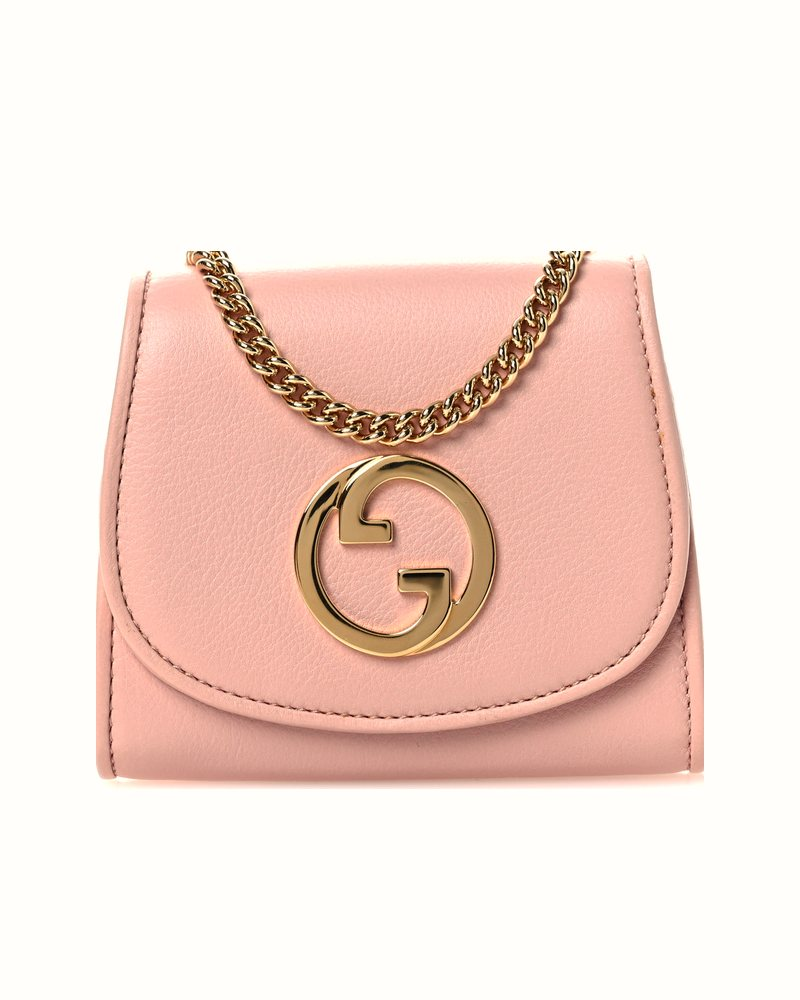
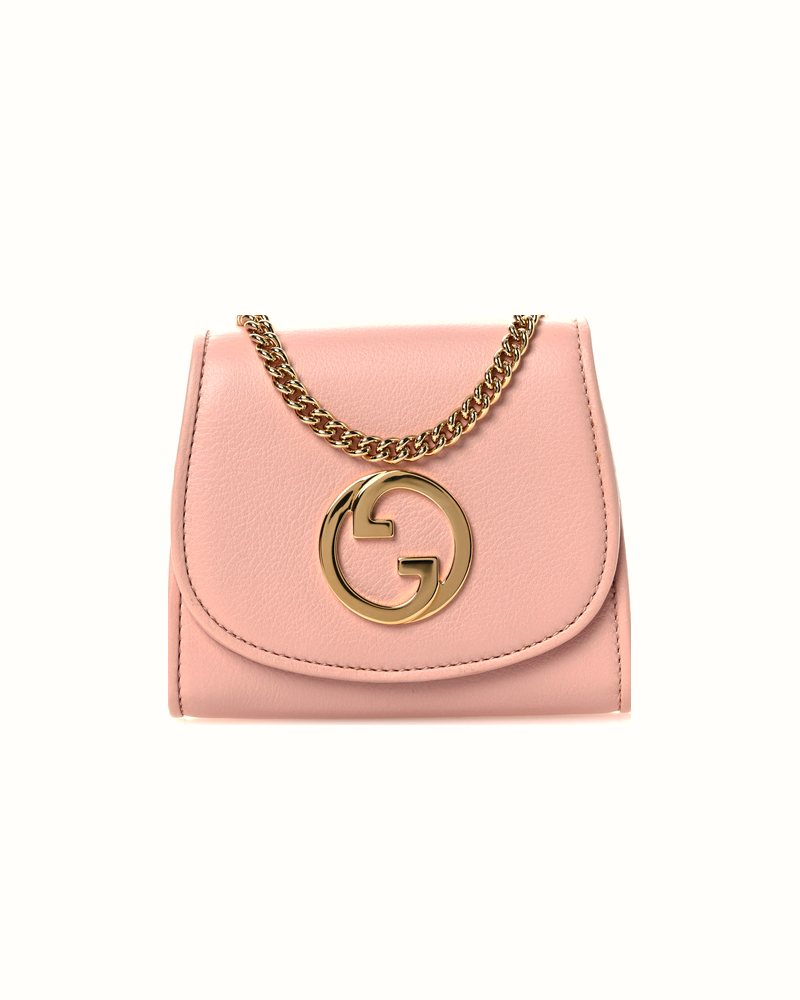
Gucci Blondie: foto da vitrine no mesmo tamanho das outras bolsas
Claude-Session: https://claude.ai/code/session_017J54gBRppZEUJhkaHXdahC

Changed region(s): [[0.0938, 0.248, 0.9062, 0.806]]

diff --git a/aluguel.html b/aluguel.html
@@ -1565,8 +1565,8 @@ data-cor="Verde">
 <a href="https://www.thebagroom.com.br/aluguel/gucci-blondie-rosa.html" class="card" data-bolsa-slug="gucci-blondie-rosa" data-marca="Gucci" data-cor="Rosa">
   <div class="img-box">
     <span class="tag">Disponível</span>
-    <img loading="lazy" decoding="async" src="/img/vitrine/GblRsa1l.jpg" alt="Bolsa Gucci Blondie Chain Wallet rosa">
-    <img class="img-hover" src="/img/vitrine/GblRsa2-2.jpg" alt="" aria-hidden="true" loading="lazy" decoding="async">
+    <img loading="lazy" decoding="async" src="/img/vitrine/GblRsa1l.jpg?v=2" alt="Bolsa Gucci Blondie Chain Wallet rosa">
+    <img class="img-hover" src="/img/vitrine/GblRsa2-2.jpg?v=2" alt="" aria-hidden="true" loading="lazy" decoding="async">
   </div>
   <div class="nome">
     <span class="marca">Gucci</span>
